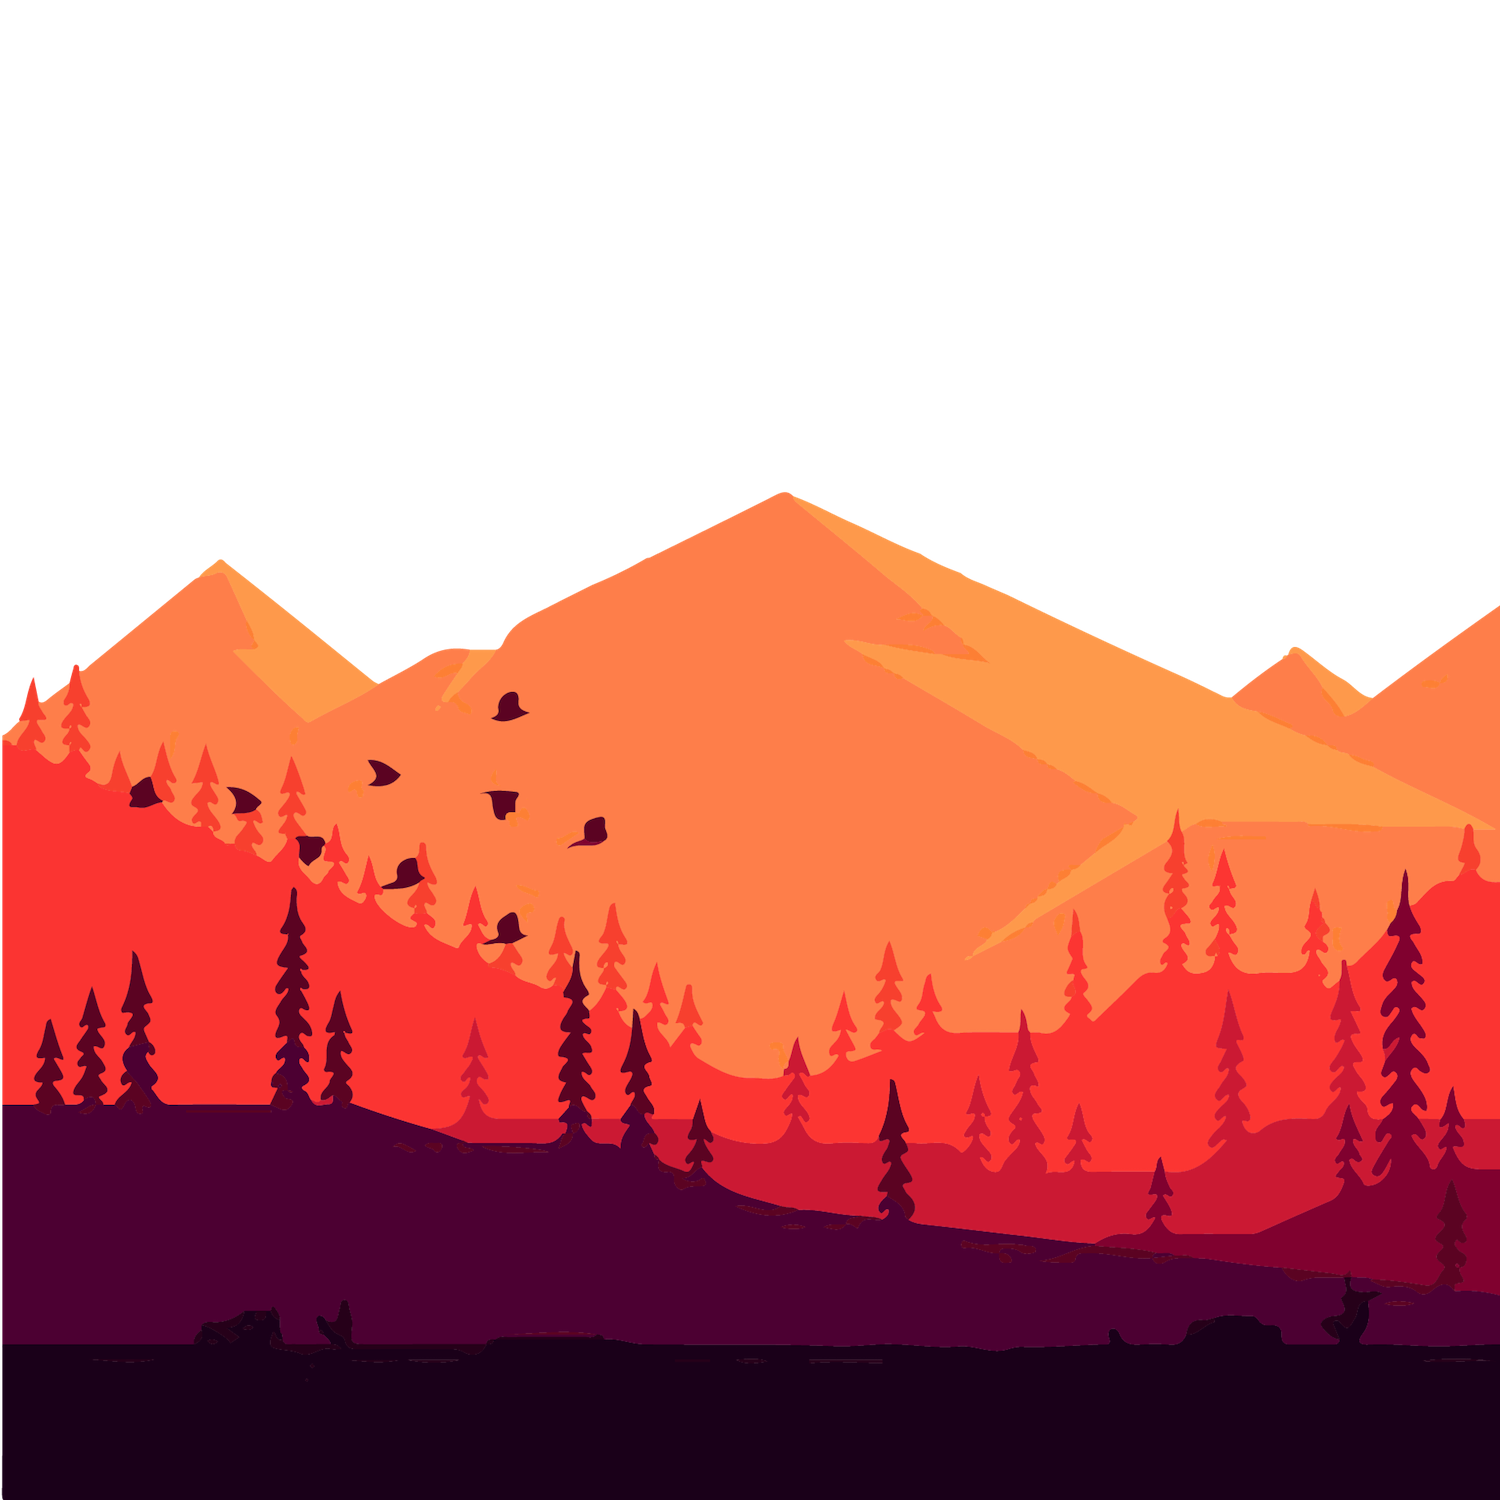
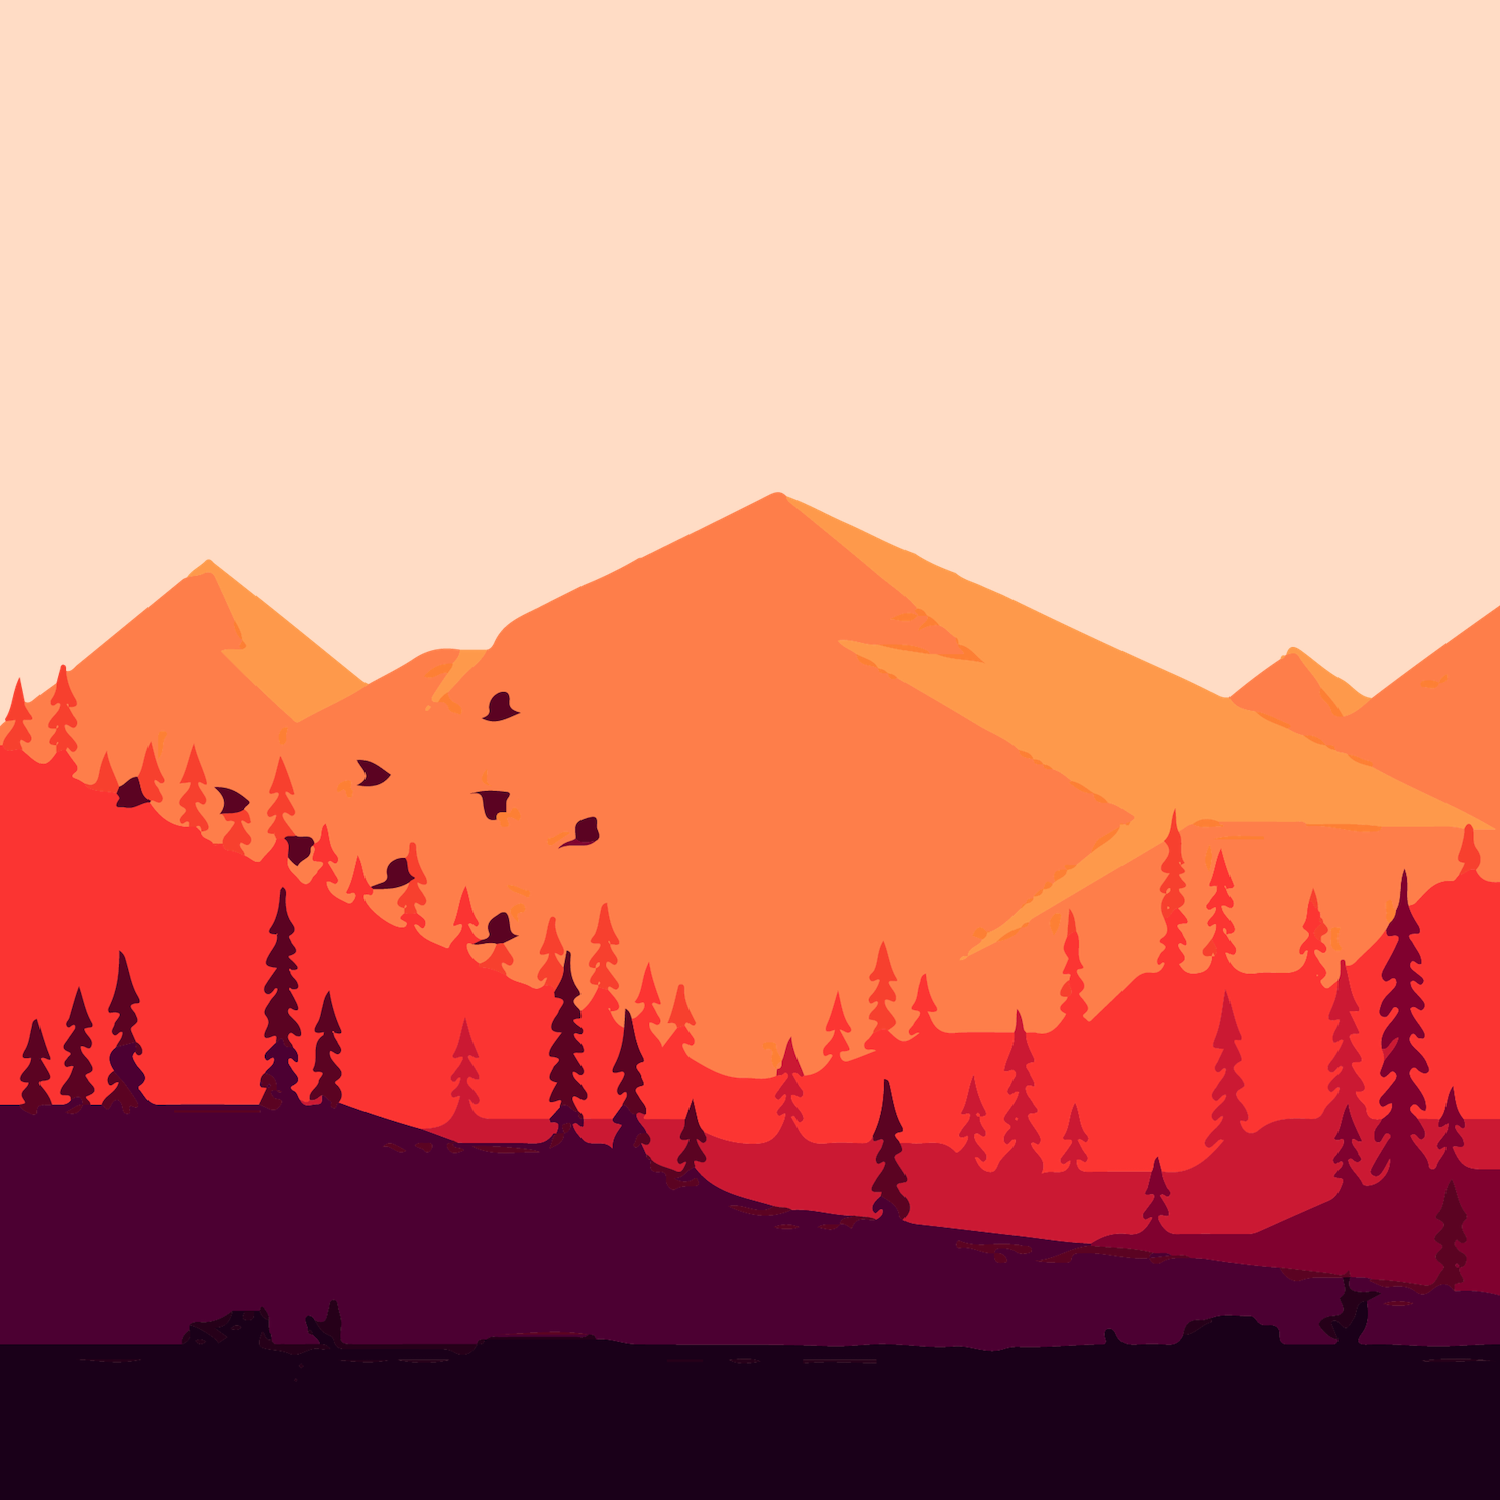
attempted parallax. failed

diff --git a/public/assets/css/style.css b/public/assets/css/style.css
@@ -79,24 +79,25 @@ right: 3%;
    opacity: 1;
    
 }
-#firstSlide,#secondSlide,#thirdSlide{
+#firstSlide,#secondSlide,#thirdSlide,#fourthSlide,#fifthSlide{
     background-attachment: fixed;
     background-size: 100%;
+    background-repeat: no-repeat;
 
 }   
 #firstSlide{
-    background-image: url("../../assets/images/Artboard 1@3x.png");
+    background-image: url("../../assets/images/action-adult-adventure-701016.jpg");
     /* https://demo.tagdiv.com/newsmag/wp-content/uploads/2014/08/70.jpg */
     /* ../../assets/images/backpack-clouds-cloudy-sky-771079.jpg */
     background-size: 100%;
 
 }
 #secondSlide{
-background-image: url("../../assets/images/action-adult-adventure-701016.jpg");
+background-image: url("../../assets/images/accomplishment-adult-adventure-372098.jpg");
 background-size: 100%;
 }
 #thirdSlide{
-    background-image: url("../../assets/images/accomplishment-adult-adventure-372098.jpg");
+    background-image: url("../../assets/images/header-hiking2.jpg");
     background-size: 100%;
 }
 
@@ -147,7 +148,7 @@ background-size: 100%;
     cursor: pointer;
     background-color: white;
     text-align: center;
-    margin: 0px 30px 75px 30px;
+    margin: 0px 20px 75px 20px;
 }
 
 .trails:hover{

diff --git a/public/assets/javascript/app.js b/public/assets/javascript/app.js
@@ -64,7 +64,7 @@ $(document).ready(function () {
 
       var pullID = 0;
       if (response.trails.length == 0) {
-        console.log("No trails found");
+       alert("No trails found");
       };
 
       var trailInfo = {};

diff --git a/public/index.html b/public/index.html
@@ -237,7 +237,6 @@
       </div>
     </div>
   </div>
-
   <div class="card-footer text-white bg-primary footer">
     <p class="footer-text"> &copy; 2018 by Group Name. All rights reserved. </p>
   </div>
